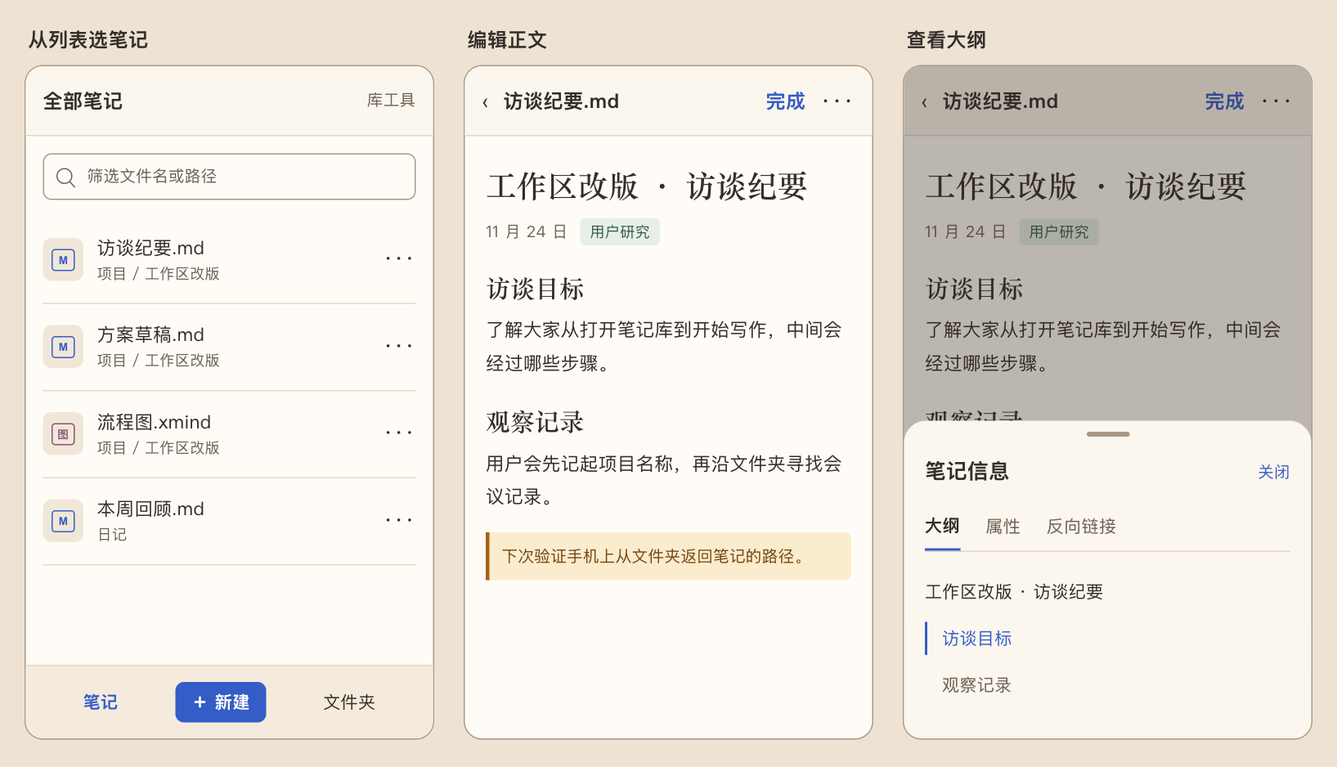
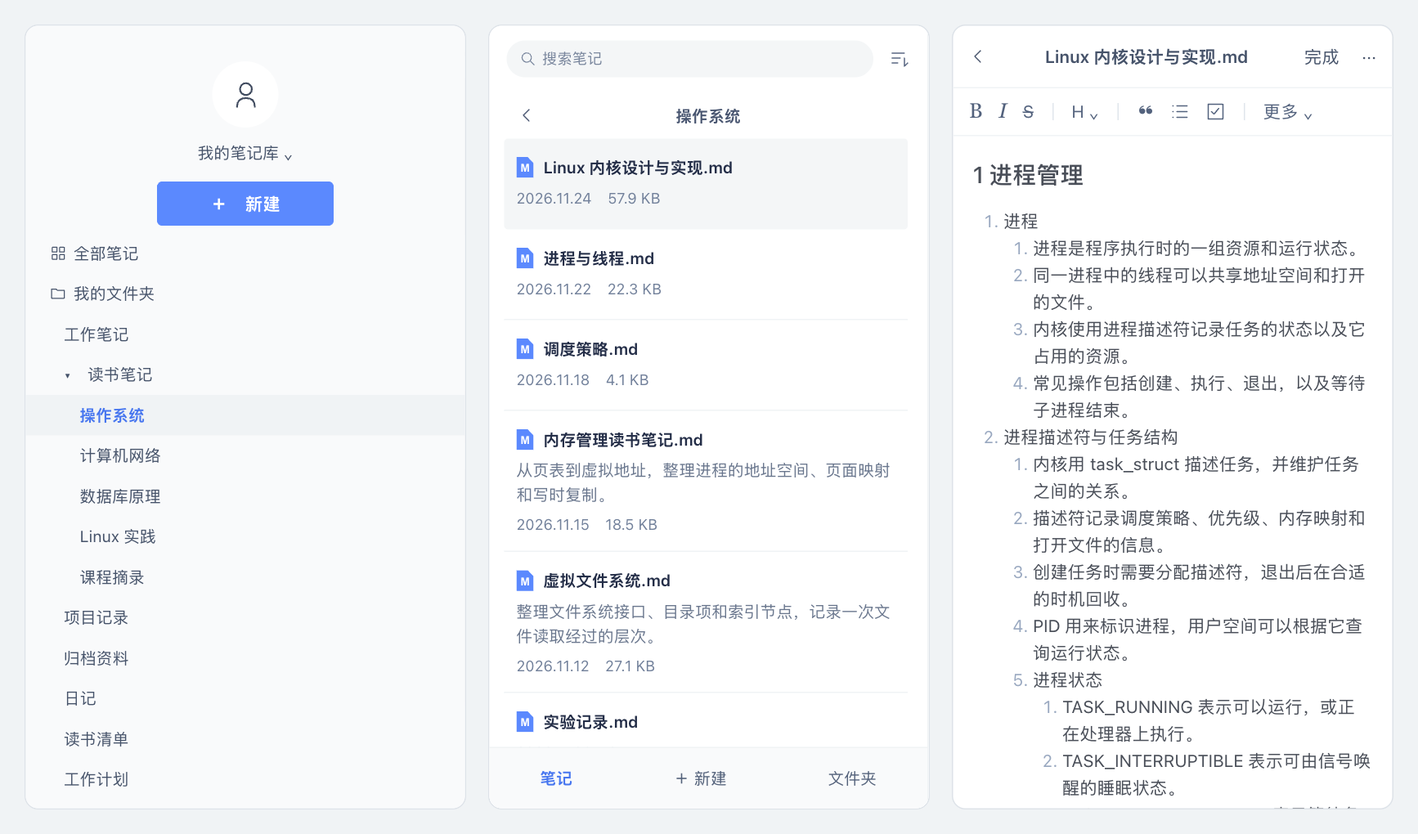
docs: match provided three-column note workspace reference

diff --git a/docs/笔记工作区设计.md b/docs/笔记工作区设计.md
@@ -2,31 +2,29 @@
 
 **Mantine AppShell · 产品与交互评审稿 · 2026 年 11 月 24 日**
 
-建议桌面默认显示**文件导航和当前笔记**。找文件时，左侧可在「全部笔记」与「文件夹」之间切换。写长文时，点「笔记信息」查看大纲、属性或反向链接。手机每次显示一个主要任务，用户从列表打开正文，返回时回到刚才选中的那一行。
+桌面以用户提供的有道云笔记截图为视觉基准。打开文件夹时，左栏停在该目录，中栏列出笔记，点选后在右栏读写。三栏从窗口顶部开始，各有自己的操作区。整个工作区共用一套白、浅灰和蓝色，常用字号为 12–14 px。
 
-本稿以本地 `main` 的 `722fae3` 为现状基线。三张图展示本轮拟议的日间、手机和夜间界面，图中文字为示例笔记。默认布局、断点和面板尺寸是本轮评审建议值。
+## 1. 桌面三栏工作区
 
-## 1. 桌面上写一篇笔记
+![桌面设计。左起依次为目录、新选目录下的笔记列表、带格式工具栏的编辑区。](assets/mantine-workspace/desktop.png)
 
-![桌面工作区示意。左侧展开项目文件夹，中间编辑访谈纪要，右侧打开文档大纲。](assets/mantine-workspace/desktop.png)
+*图 1 · 1900 × 1046，与参考截图同尺寸。当前目录为「读书笔记 / 操作系统」，中栏选中第一篇，右栏展开 Markdown 笔记。文件名、笔记内容和元数据为示例。*
 
-*图 1 · 用户从「项目 / 工作区改版」打开访谈纪要，正在编辑，并主动展开了右侧大纲。首次进入时右栏收起，正文获得更多空间。*
-
-| 区域 | 用户在这里做什么 | 交互细节 |
+| 区域 | 尺寸与位置 | 使用方式 |
 | --- | --- | --- |
-| 顶部工作区栏 | 确认当前笔记库，查看路径，进入全文搜索或库工具 | Web 的库名可以打开切库菜单。桌面本地库显示当前绑定信息，换库通过「返回同步」完成。面包屑点击父目录时只定位左栏，当前文档继续打开。 |
-| 左侧文件导航 | 在当前文件夹新建笔记、沿树找文件、按名字找一篇旧笔记 | 「全部笔记」给出平铺列表，同名文件显示父路径。「文件夹」展开目录并显示文件，点目录名称定位新建位置，点箭头只改变展开状态。列表与树复用同一套条目操作。 |
-| 文档标题栏 | 确认文件名、查看编辑模式、保存、打开笔记信息 | 文件名保留扩展名。宽度不足先收纳分享和次要命令，再收缩面包屑。保存或编辑器自己的保存入口始终可达。 |
-| 正文 | 读写 Markdown、查看文本，或操作 JSON、XMind | 阅读和所见所得正文居中。源码、分屏、XMind 画布使用可用宽度。标题栏固定在文档区域顶部，正文与左右栏各自滚动。 |
-| 右侧笔记信息 | 跳到标题、读 YAML 属性与标签、查看引用当前笔记的文件 | 默认先看大纲。点标题跳到正文对应位置，宽屏保留面板供连续定位。点反向链接相当于打开另一篇笔记，执行切换文档的草稿检查。 |
+| 库与目录 | 左侧 202 px，整栏浅灰。顶部放头像、库名与蓝色「＋ 新建」，底部放布局切换 | 点「全部笔记」列出当前库文件，选择目录刷新中栏，点展开箭头只展开下一级。高亮当前目录。新建以所选目录为目标，库工具按平台能力提供分享、回收站或返回同步 |
+| 笔记列表 | 中间 313 px，白底。顶部搜索框与排序，下方为返回上级按钮和当前文件夹名，底部显示结果数 | 一行显示小文件图标与文件名，次行显示可取得的日期和大小。有现成摘要或缩略图时最多显示两行摘要和一张小图。没有这些数据时使用紧凑行。选中文件用浅灰底 |
+| 文件标题栏 | 从 x = 515 起，只占右栏。高 75 px。文件名左对齐，保存、信息、分享和更多靠右 | 编辑动作由当前文件类型决定。「保存」采用浅灰按钮，明确显示加载、已保存或重试状态。文件名过长时截断，完整路径通过提示或笔记信息查看 |
+| 格式工具栏 | 标题栏下方 47 px，按钮在一条横线上，相关命令用细线分组 | Markdown 编辑时提供加粗、斜体、删除线、标题、引用、列表、链接、附件和代码。窄窗口把末尾命令收进「更多」。TXT 和文件插件各用自己的工具 |
+| 正文 | 从 y = 122 起，左侧内边距 44 px，内容使用右栏可用宽度，正文与左右栏分别滚动 | 标题和列表左对齐，保留 Markdown 层级缩进。正文左边缘的小按钮按需打开大纲浮层，点标题后定位到该段。属性和反向链接从标题栏的「笔记信息」进入 |
 
-**保留整理文件时的三栏。** 在「布局」里提供「导航与正文」「目录、列表与正文」和「专注写作」。第二项让频繁移动文件的人同时看到目录树和当前目录的文件，沿用原来的工作习惯。这种布局的大纲以浮层打开，避免四个固定栏争夺空间。专注模式提供常驻的「退出专注」按钮，退出后恢复进入前的排列。
+底部三个布局按钮依次用于三栏、列表与正文、专注写作，默认选中三栏。折叠时保留已展开目录、当前文件和滚动位置。用户退出专注后回到之前的排列。
 
 ## 2. 手机上从列表写到正文
 
-![手机流程示意。第一屏选中访谈纪要，第二屏编辑，第三屏从更多操作打开笔记信息底部面板。](assets/mantine-workspace/phone.png)
+![手机流程示意。依次显示目录、当前目录的笔记列表、带紧凑工具栏的正文。](assets/mantine-workspace/phone.png)
 
-*图 2 · 左起为列表、编辑和大纲。编辑时隐藏列表底部导航。「更多 → 笔记信息」从底部打开，选中标题后关闭并定位正文。*
+*图 2 · 左起为目录、列表与编辑。三屏使用同一套颜色，编辑时隐藏列表底部导航。「更多 → 笔记信息」从底部打开，选中标题后关闭并定位正文。*
 
 1. **进入笔记库。** 显示「笔记 / 新建 / 文件夹」。点「笔记」看全部文件，点「文件夹」逐级浏览，点「新建」沿用当前目录及现有新建、导入菜单。浏览器手机视图也采用这条路径。系统分享、系统返回等动作由 Android 端提供。
 2. **进入正文。** 点击列表项后保留列表的目录、筛选、排序和滚动位置。标题栏只留返回、文件名、当前主动作和更多。Android 的系统分享入口移到更多菜单。文件名较长时截断显示，在笔记信息里可读完整路径。
@@ -35,11 +33,11 @@
 
 ## 3. 哪些功能从哪里进
 
-同一个词代表同一种操作。「筛选文件名或路径」在当前库的文件清单里即时匹配。「全文搜索」进入原有搜索页，可按正文、标签和路径查找。用户拿着一句原文时可以直接用全文搜索，记得文件名时可以留在编辑界面。
+同一个词代表同一种操作。中栏「搜索笔记」默认在当前库按文件名或路径即时匹配，输入框的无障碍名称为「筛选笔记路径」。搜索框的「全文搜索」动作进入原有搜索页，可按正文、标签和路径查找。用户拿着一句原文时可以直接用全文搜索，记得文件名时可以留在编辑界面。
 
 | 功能 | Web 工作区 | 桌面和 Android 本地工作区 |
 | --- | --- | --- |
-| 库与账户 | 顶栏库菜单切换、新建。账户菜单切主题、退出 | 显示绑定库。工具菜单返回同步首页管理目录、账户和同步。Android 底栏用于浏览、创建文件 |
+| 库与账户 | 左栏库名菜单切换或新建库。头像菜单提供账户和退出操作 | 显示绑定库。工具菜单返回同步首页管理目录、账户和同步。Android 底栏用于浏览、创建文件 |
 | 笔记与目录 | 左栏新建、上传，条目「更多」管理文件或目录 | 左栏或手机列表提供新建、导入、刷新。右键、行尾更多、触屏长按进入同一组适用操作 |
 | 搜索、附件、导出 | 全文搜索有直接入口。附件与整库导出在库工具 | 相同导航名称，复用本地客户端的资源接口。联网获取的结果显示请求状态。离线时可继续按本地文件路径筛选 |
 | 分享与收件 | 文档更多可分享快照。库工具含收件箱、已发送和分享管理。审计日志在账户菜单 | Android 文本笔记更多菜单可调起系统分享。桌面、本地插件按当前已接入的能力展示操作 |
@@ -55,12 +53,12 @@
 
 | 可用宽度 | 导航 | 笔记信息与正文 |
 | --- | --- | --- |
-| ≥ 1280 | 默认左栏 276，可选经典三栏，目录与列表合计约 480 | 默认双栏布局可打开约 248 的固定右栏。专注或经典三栏时用浮层 |
-| 1024–1279 | 左栏 248，支持收起 | 大纲从右侧浮出。若此前选择经典三栏，临时使用合并导航。放宽窗口后恢复偏好 |
-| 721–1023 | 顶栏「文件」打开导航抽屉，选中文件后关闭 | 主区占满宽度。笔记信息用右侧抽屉，左右抽屉互斥 |
-| ≤ 720。Android 横屏宽 ≤ 960 且高 ≤ 540 | 列表、正文、工具页逐屏浏览 | 笔记信息用底部面板。短横屏面板可滚动，关闭按钮保持可见 |
+| ≥ 1280 | 目录 202 px，列表 313 px，正文占余宽 | 大纲和笔记信息按需浮出。布局切换位于左栏底部 |
+| 1024–1279 | 目录 176 px，列表 256 px | 正文左右各留 24 px，优先将次要命令收入「更多」 |
+| 721–1023 | 默认保留 240 px 列表和正文，列表顶部的目录按钮打开目录抽屉 | 选目录后更新列表，点文件后更新正文。单次只展开一个抽屉 |
+| ≤ 720，或 Android 横屏宽 ≤ 960 且高 ≤ 540 | 目录、列表、正文逐屏切换 | 手机正文保留 16 px 左右内边距，笔记信息从底部打开 |
 
-- 桌面顶栏建议 52 高，内边距以 8 的倍数组织。阅读正文最大宽度建议 740，平板左右各留 24，手机各留 16。宽表格和代码块在自身区域横向滚动。系统安全区计入手机顶栏、底栏与底部面板的留白。
+- 右侧正文随窗口宽度自然换行。长代码块、宽表格在块内滚动。触屏留出系统安全区，手机键盘出现后仍能编辑最后一行。
 - 布局随宽度变化时保持同一个编辑器实例、选区、撤销记录和草稿。窄屏只临时折叠面板。旋转设备不得覆盖桌面布局偏好。手机横屏判定应使用稳定视口，输入法弹出时仍留在当前编辑会话。
 - 普通库首次打开时沿用各端选文逻辑。网页加载该库现有笔记，本地端从可浏览的列表开始。空库只给一个主动作，Web 显示「新建笔记」并提供上传，本地库提供导入。账户没有普通库时，Web 首屏主动作是「创建笔记库」。
 
@@ -70,7 +68,7 @@
 | --- | --- | --- |
 | Markdown | 保留预览、所见所得、源码、分屏、思维导图，以及用户设置的默认和记忆模式。分屏内部分隔条继续控制源码与预览比例 | 大纲取当前编辑缓冲区，属性从 frontmatter 提取，可查看标签。反向链接按当前文件查询 |
 | TXT | 预览、源码、保存 | 显示完整路径和可用反向链接 |
-| JSON、XMind 与本地安装的文件插件 | 宿主打开文件，插件控制格式校验、画布、内容保存及专用导出。XMind 画布可以占满中央区域 | 只展示宿主或插件实际提供的信息。插件禁用或加载失败时沿用现有提示和恢复入口 |
+| JSON、XMind 与本地安装的文件插件 | 宿主打开文件，插件控制格式校验、画布、内容保存及专用导出。XMind 画布可以占满右侧编辑区 | 只展示宿主或插件实际提供的信息。插件禁用或加载失败时沿用现有提示和恢复入口 |
 | 历史版本 | Web 从当前文件进入历史页，文本可预览，适用的二进制版本下载 | 显示所看版本和「返回当前文档」。历史查看与当前草稿分开，返回后恢复草稿 |
 | 加密笔记库 | 进入独立解锁、编辑、保存与锁定流程 | 普通文件树、路径筛选、最近使用的布局数据均不得写入加密库的明文名称、路径或内容。锁定后清理界面引用并返回入口 |
 
@@ -79,39 +77,39 @@
 | 用户操作或结果 | 界面规则 |
 | --- | --- |
 | 未修改 → 修改 → 保存 | 有改动时「保存」可用，提交期间显示「正在保存」并防止重复提交。返回结果只确认本次提交的内容。若期间出现新改动，继续显示「有未保存的修改」 |
-| 折叠侧栏、打开信息、切主题、手机返回列表 | 仅改变显示位置，不写盘。再次进入正文时保留文本、撤销历史、选区与滚动位置 |
+| 折叠侧栏、打开信息、切换目录、手机返回列表 | 仅改变显示位置，不写盘。再次进入正文时保留文本、撤销历史、选区与滚动位置 |
 | 打开另一篇、切库、离开会话或进入会替换它的工具页 | 有草稿时显示文件名与「留在此处」「放弃并继续」。有可调用保存动作的编辑器才提供「保存并继续」，写入成功后执行原动作。浏览器刷新沿用系统离开提示 |
 | 网络失败、版本已变化、本地文件已变化 | 保留草稿并展示当前文件与具体原因。暂时断网可重试。基线冲突提供复制草稿或保全副本的路径，再交由现有版本或同步流程处理。旧基线禁止静默覆盖 |
 | 正在上传附件或请求反向链接时切换文件 | 结果按库和文件身份核对。旧文档的链接、错误或插入位置只属于原文档。迟到响应不能覆盖新文档或清除它的修改状态 |
 
 ## 6. 视觉、键盘与触屏
 
-### 写作区的暖色主题
+### 截图配色与文字尺寸
 
-有道云笔记 Mac 版的官方展示图把蓝色「新建」按钮放在文件列表上方，并用浅蓝色标出当前文件。展开菜单时，正文仍有独立的浅色背景。WeNote 借用这种区分动作、位置和内容的方式。针对初稿偏冷的问题，我们把占屏面积最大的颜色改为暖白和暖杏，给文件夹加上琥珀色轮廓。以下色值是 WeNote 的设计选择。[有道云笔记官方展示图（Mac App Store）](https://apps.apple.com/cn/app/id1600668116)
+以下表面与正文色值取自用户截图的纯色区域。字号与间距以截图的视觉比例拟定，单位为 CSS px。按原尺寸查看图 1，可直接对照同一行文字占用的空间。
 
-| 用途 | 日间 | 夜间 | 放在界面哪里 |
-| --- | --- | --- | --- |
-| 纸面与正文 | 暖白 `#FFFCF7`、炭黑 `#322E29` | 深褐 `#25211E`、米白 `#F3EAE1` | 正文保持整片纸面。中文标题用宋体，界面标签用系统无衬线，源码用等宽字体 |
-| 文件导航与工具面板 | 暖杏 `#F5EBDD`、浅米 `#FBF6EE` | 棕灰 `#302A25`、深棕 `#2B2622` | 左栏颜色略重，右侧大纲、手机顶栏和底部面板用较轻的表面色 |
-| 次要文字与分隔线 | `#6D6054`、`#E4D8C8` | `#C5B5A5`、`#4B4037` | 路径、日期、排序说明使用次要文字，分隔线用于组织区域 |
-| 主操作与按钮文字 | 蓝 `#355DC7`、白 `#FFFFFF` | 浅蓝 `#A8C0FF`、深蓝黑 `#182443` | 新建、可用的保存按钮。手机正文里「完成」只用蓝色文字 |
-| 当前选中项 | 淡蓝底 `#E6EDFF`、蓝字 `#355DC7` | 靛灰底 `#313C58`、浅蓝字 `#A8C0FF` | 当前文件同时使用底色、左侧短线和字重。大纲仅标记当前标题 |
-| 文件夹、引用与标签 | 文件夹边 `#A76016`，引文底 `#FAECCD`、字 `#744410`，标签底 `#E7EFE8`、字 `#365E46` | 文件夹边 `#EDB86B`，引文底 `#433421`、字 `#F1C98C`，标签底 `#263F33`、字 `#B0D5BC` | 色彩集中于小图标、真实的 Markdown 引用和已有标签。空白笔记只显示标题与正文输入区 |
+| 元素 | 色值 | 规则 |
+| --- | --- | --- |
+| 列表与正文 | `#FFFFFF` | 两栏使用同一白底，边缘用 1 px 细线分隔 |
+| 目录栏、选中目录 | `#F9FAFB`、`#F0F3F5` | 当前目录用蓝字标记；展开态用独立箭头表示 |
+| 当前笔记、搜索框 | `#F4F6F7` | 选中笔记使用浅灰底，文件名使用深色半粗体 |
+| 新建按钮 | `#5B89FE` | 白字，圆角 4 px。保存、更多和格式工具用中性灰，键盘焦点另有细描边 |
+| 文件名、正文 | `#232D47`、`#494E58` | 系统无衬线字体，macOS 优先使用苹方，Windows 使用微软雅黑。固定宽度字符仅用于代码 |
+| 辅助文字 | 截图样本 `#A9B2C2`，样稿 `#71809A` | 日期、大小和搜索提示适度加深，避免小字在白底上过淡 |
 
-![同一篇访谈纪要的夜间主题，深褐正文、棕灰侧栏和浅蓝色操作按钮。](assets/mantine-workspace/desktop-dark.png)
+| 文字层级 | 桌面字号 / 行高 | 使用位置 |
+| --- | --- | --- |
+| 辅助文字 | 12 / 18 px | 日期、大小、列表底部计数 |
+| 文件导航、笔记名 | 13 / 20 px | 目录行高 30 px。普通笔记行约 74 px，摘要行按内容增加高度 |
+| 正文 | 14 / 23.5 px | 普通段落、列表、表格。手机正文 14 / 22 px，允许系统放大 |
+| 文件标题 | 20 / 30 px | 右栏文件名。手机文件名 14 px |
+| Markdown 一级标题 | 24 / 34 px | 二级标题建议 20 px，三级 16 px。手机一级标题 19 px |
 
-*图 3 · 与图 1 的笔记和布局相同。夜间保留文件夹的琥珀色，用浅蓝按钮配深色文字。*
-
-**交互状态。** 鼠标悬停文件行时铺一层浅暖色，键盘焦点用 2 像素主色描边并留 2 像素间距。保存成功后按钮退为次要文字，显示「已保存到本地」或「已保存新版本」。失败提示用错误图标、原因和可执行的恢复动作。手机沿用相同颜色，底部操作栏取导航色，正文返回与更多菜单保持足够的触控面积。
-
-**接入方式。** 在 `MantineProvider` 下按浅深模式定义纸面、导航、面板、主文字、次文字、主操作和选中底色。将现有 `--paper`、`--rail`、`--ink`、`--muted`、`--accent`、`--tint` 映射到对应角色。Drawer 和菜单通过 Portal 也应获得同组值。CodeMirror 的底色跟随纸面，选区跟随选中底色。Mermaid 和 XMind 的默认主题随外观切换，并尊重用户已选的脑图主题。
-
-**可读性验收。** 按表中 sRGB 色值计算，正文与纸面的对比度为日间 13.17∶1、夜间 13.44∶1。主按钮文字为 5.93∶1、8.49∶1，选中文件名为 5.06∶1、6.07∶1。实施时还需在实际 WebView 中检查输入焦点、代码高亮、错误提示与系统字体放大后的效果。
+普通笔记工作区固定这一套浅色外观。头像菜单只提供账户相关操作。AppShell、弹层、编辑器纸面、列表和默认图表背景共用相同色值。系统字体缩放和键盘焦点仍然生效。
 
 ### 键盘与触屏
 
-- `Ctrl/⌘ + Shift + F` 延续现有行为，展开文件导航并聚焦路径筛选。`Ctrl/⌘ + S` 调用当前文档的保存。中文输入法正在组词时，Enter、方向键等交给输入控件。树节点与列表项都支持键盘到达、选择与展开。
+- `Ctrl/⌘ + Shift + F` 延续现有行为，展开笔记列表并聚焦中栏搜索框。`Ctrl/⌘ + S` 调用当前文档的保存。中文输入法正在组词时，Enter、方向键等交给输入控件。树节点与列表项都支持键盘到达、选择与展开。
 - 移动端行尾更多、返回、完成和底栏按钮至少提供 48 × 48 的触控区域。纵向拖动只滚列表，长按静止行才打开菜单。子菜单返回上一级，关闭后键盘焦点回到触发按钮。如果该行已删除，移到相邻行。
 - 用语义化导航、主区、标题和带名称的按钮支持读屏。面板按钮报告展开状态，当前页和当前文件可由读屏辨认。保存状态在发生变化时播报一次。错误保持可见并提供恢复动作。
 - 打开抽屉后焦点进入抽屉，关闭后回到触发位置。点击大纲标题属于正文定位动作，关闭抽屉后将焦点交给目标标题或编辑器。系统偏好减少动画时关闭滑入过渡。
@@ -123,30 +121,31 @@
 | 代码位置 | 拟议改动 | 必须保留的行为 |
 | --- | --- | --- |
 | [Web 入口](../apps/web/src/main.tsx)、[本地编辑入口](../apps/web/src/desktop.tsx) | 在普通工作区入口放 `MantineProvider` 与共享工作区组件。分别传入库、当前文档、工具与可用动作。Web 以库和文件 ID、本地以绑定库和路径识别会话 | Web 的版本基线、Tauri 的本地哈希、二进制插件读写及原有退出确认各有归属。公开分享和本地同步首页有独立入口 |
-| [库面板](../apps/web/src/LibraryUI.tsx)、[条目菜单](../apps/web/src/EntryMenu.tsx) | `AppShell.Header` 放库级动作，`Navbar` 放文件浏览，`AppShell.Section` 管理可滚动区域。先抽出已有排序、路径筛选与文件操作，再把树和列表接入新布局 | 保留空目录标记、自然排序、同名文件的完整路径、文件夹上下文菜单、键盘和长按行为 |
-| [Web 文档](../apps/web/src/Editor.tsx)、[共享文档](../apps/web/src/markdown/Markdown.tsx)、[插件编辑器](../apps/web/src/plugins/PluginEditor.tsx) | `AppShell.Main` 作为唯一主区。正文保持稳定挂载。宽屏把信息挂到 `AppShell.Aside`，窄屏切换到 `Drawer`。扩展已有 `metadataHost`，把目录和属性显示在选中页签 | 使用同一份 Markdown 解析结果。信息收起时停掉仅为该面板进行的查询，切换面板类型只移动信息视图。插件自己维护撤销与保存 |
+| [库面板](../apps/web/src/LibraryUI.tsx)、[条目菜单](../apps/web/src/EntryMenu.tsx) | `AppShell.Navbar` 包含左目录与中列表，两个区域分别滚动。库级动作放左栏，搜索与排序放中栏。先抽出已有排序、路径筛选与文件操作，再把树和列表接入新布局 | 保留空目录标记、自然排序、同名文件的完整路径、文件夹上下文菜单、键盘和长按行为 |
+| [Web 文档](../apps/web/src/Editor.tsx)、[共享文档](../apps/web/src/markdown/Markdown.tsx)、[插件编辑器](../apps/web/src/plugins/PluginEditor.tsx) | `AppShell.Main` 作为唯一主区。正文保持稳定挂载。标题栏和格式栏只在右侧主区占位。大纲与信息通过浮层或 `Drawer` 展示。扩展已有 `metadataHost`，把目录和属性显示在选中页签 | 使用同一份 Markdown 解析结果。信息收起时停掉仅为该面板进行的查询，切换面板类型只移动信息视图。插件自己维护撤销与保存 |
 | [手机交互](../apps/web/src/PhoneUI.tsx) | 保留现有手机列表与正文层级。新增 Mantine 抽屉时向 Android 返回处理注册当前最上层关闭动作 | 现有处理通过 `dialog[open]` 找原生对话框。Mantine Portal 需显式接入同一返回顺序，避免一次返回同时关弹层并离开正文 |
-| [主题](../apps/web/src/appearance.ts)、[现有样式](../apps/web/src/style.css) | 让 Provider 用现有 `wenote-color-scheme-v1` 驱动颜色，更新原有根节点属性及 Mantine 主题。CSS 加载优先级显式约定，将旧全局 `button`、`main`、布局规则逐步收窄 | 检查冷启动主题、深浅切换、弹层 Portal、图表和打印。打印或导出 PDF 时只保留笔记内容 |
+| [外观入口](../apps/web/src/appearance.ts)、[现有样式](../apps/web/src/style.css) | 在普通工作区的 Provider 固定浅色，将表面、分隔、正文与操作色映射到现有 CSS 变量，Portal 使用同组样式 | 从旧版深色偏好进入工作区时，导航和正文均应按本稿显示。编辑器沿用用户无障碍字号设置。打印或导出 PDF 只保留笔记内容 |
 
-**布局实现约定。** `AppShell.Main` 只计算一次固定区域的偏移。经典三栏用一个较宽的 `Navbar` 容纳目录与列表，`Aside` 留给笔记信息。当 Navbar 收起时，顶栏库名前出现带「打开文件导航」名称的按钮。抽屉模式让对应固定面板折叠，避免留下空白偏移。手机正文只保留一个标题栏。使用 `@mantine/core` 与 `@mantine/hooks` 的匹配版本，实施时验证项目的 React 19、Vite 和 Tauri WebView 构建并锁定依赖。[AppShell 布局](https://mantine.dev/core/app-shell/) · [Drawer 焦点与关闭行为](https://mantine.dev/core/drawer/) · [Vite 接入](https://mantine.dev/guides/vite/)
+**布局实现约定。** `AppShell.Main` 只计算一次 Navbar 的宽度偏移。宽屏 Navbar 总宽 515 px，内部以 202 px 与余宽分成目录和列表。编辑器保留同一个挂载位置，文档栏独立放置文件标题与工具栏。关闭浮层后焦点回到触发按钮或选中的正文位置。实施时按 React 19、Vite 与 Tauri WebView 的目标环境验证构建。[AppShell 布局](https://mantine.dev/core/app-shell/) · [Drawer 焦点与关闭行为](https://mantine.dev/core/drawer/) · [Vite 接入](https://mantine.dev/guides/vite/)
 
-**状态归属。** 布局模式与主题按设备记忆。文件夹、搜索词、树展开和列表滚动按当前库的会话保存。抽屉、子菜单、焦点和正在组词的输入属于当前窗口。编辑器独占草稿、保存基线、选择区与撤销栈。点选导航先检查能否离开，再提交新的选中状态。客户端只呈现该平台提供的动作，离线和权限错误由具体操作反馈。[主题方案](https://mantine.dev/theming/color-schemes/) · [样式加载](https://mantine.dev/styles/mantine-styles/)
+**状态归属。** 布局模式按设备记忆。文件夹、搜索词、树展开和列表滚动按当前库的会话保存。抽屉、子菜单、焦点和正在组词的输入属于当前窗口。编辑器独占草稿、保存基线、选择区与撤销栈。点选导航先检查能否离开，再提交新的选中状态。客户端只呈现该平台提供的动作，离线和权限错误由具体操作反馈。[样式加载](https://mantine.dev/styles/mantine-styles/)
 
 ## 8. 实施顺序与验收
 
 | 阶段 | 可交付的完整体验 | 进入下一阶段的条件 |
 | --- | --- | --- |
-| 一 · Web 读写 | 普通库中完成查找、打开、编辑、保存。新壳层接入标题栏、文件导航、主题和可选笔记信息 | 同一篇 Markdown 切栏后仍能撤销，保存生成正确版本。关闭信息面板后正文获得可用宽度 |
-| 二 · Web 工具与文件类型 | 接入库工具、经典三栏、历史、插件、附件和导出。验证公开分享与加密入口 | 在界面上找得到原有各项动作，按路径定位同名文件正确，插件修改可保存，打印只含正文 |
-| 三 · 桌面本地工作区 | 复用壳层，接入本地打开、写入、离线浏览和返回同步 | 断网修改可落盘，重开本地库可读。恢复联网后可通过原同步流程查到结果 |
+| 一 · Web 读写 | 普通库中完成查找、打开、编辑、保存。新壳层接入标题栏、目录、笔记列表、格式栏与笔记信息浮层 | 同一篇 Markdown 切栏后仍能撤销，保存生成正确版本。关闭浮层后焦点回到原处 |
+| 二 · Web 工具与文件类型 | 接入库工具、布局切换、历史、插件、附件和导出。验证公开分享与加密入口 | 在界面上找得到原有各项动作，按路径定位同名文件正确，插件修改可保存，打印只含正文 |
+| 三 · 桌面本地工作区 | 复用三栏工作区，接入本地打开、写入、离线浏览和返回同步 | 断网修改可落盘，重开本地库可读。恢复联网后可通过原同步流程查到结果 |
 | 四 · 手机与跨端回归 | 小屏 Web 和 Android 接入逐屏导航、底部信息面板和返回栈 | 竖屏、短横屏、软键盘、读屏焦点、触屏长按和系统返回均通过场景验收 |
 
 ### 可直接执行的场景
 
 | 场景 | 操作 | 通过条件 |
 | --- | --- | --- |
+| 视觉对照 | 以 1900 × 1046、100% 缩放打开普通工作区，并从旧版深色偏好重新进入 | 首屏为浅色三栏，栏界在 x = 202、515，正文从工具栏下方开始。检查 13 px 列表、14 px 正文、20 px 文件名及 24 px 一级标题 |
 | 同名与筛选 | 在两个文件夹创建同名笔记，按路径筛选，打开其中一篇，再清除筛选 | 结果显示父路径，正文属于选中项，清除筛选后目录上下文可恢复 |
-| 长文写作 | 在文中改一个词，打开大纲、切换主题、收起左栏、恢复布局，再撤销 | 草稿连续，撤销一次还原刚才的词。面板开合不触发保存 |
+| 长文写作 | 在文中改一个词，打开大纲、收起左栏、恢复布局，再撤销 | 草稿连续，撤销一次还原刚才的词。面板开合不触发保存 |
 | 草稿跨页 | 编辑 Markdown 或改动 XMind 节点后，选另一篇、切库或进入会替换文档的工具页 | 取消后文件、选区和内容仍在。选择保存并继续时，只有写入成功才导航 |
 | 离线与冲突 | 断开桌面网络，保存本地文档并打开全文搜索。在 Web 用两个会话修改同一版本 | 本地显示已写盘，搜索显示可重试。Web 旧基线写入失败时保住草稿，未显示成功 |
 | 窗口变化 | 带着未保存修改调整到 1440、1280、1024、768、390 像素宽，再旋转到 844 × 390 | 固定栏和抽屉依表切换，右栏无残留空位，正文仍可输入，扩大后恢复布局 |
@@ -154,6 +153,4 @@
 | 格式和设备 | 轮流打开 TXT、Markdown、JSON、XMind，执行各自的保存或导出，并在另一设备同步后打开 | 模式与动作符合文件类型，JSON 可再次解析，XMind 可再次打开并保留修改，Android 导出进入系统保存流程 |
 | 独立入口 | 直接打开受密码保护的分享链接。解锁加密库、编辑、锁定，然后回普通库 | 访问按原权限校验。锁定后在普通导航、最近使用数据与屏幕上均找不到明文信息 |
 
-实施阶段可扩展现有 [条目菜单测试](../apps/web/tests/entry-menu.mjs)、[外观回归](../apps/web/tests/theme.mjs)、[Android 场景](../apps/web/tests/android.mjs)和[桌面端到端验收](../tests/e2e/desktop.mjs)。两端构建入口见[项目说明](../README.md)。以上为后续实现验收标准，本轮已交付的内容是设计稿及三张示意图。
-
-**本轮主题评审可对照图 1 和图 3。** 两图展示同一篇笔记，便于观察日夜两种模式下正文、当前文件和保存动作的层次。图 2 用于检查这些颜色在手机上的实际占比。
+实施阶段可扩展现有 [条目菜单测试](../apps/web/tests/entry-menu.mjs)、[外观回归](../apps/web/tests/theme.mjs)、[Android 场景](../apps/web/tests/android.mjs)和[桌面端到端验收](../tests/e2e/desktop.mjs)。两端构建入口见[项目说明](../README.md)。以上为后续实现验收标准，本轮交付为设计文档、桌面原尺寸示意图和手机逐屏示意图。

diff --git a/docs/tasks/DOCS-20261124-mantine-workspace.md b/docs/tasks/DOCS-20261124-mantine-workspace.md
@@ -6,7 +6,7 @@
 | 基线 | 本地 `main` · `722fae3` |
 | 分支 | `codex/docs-mantine-workspace-20261124` |
 | worktree | `.worktrees/mantine-workspace` |
-| 状态 | `DELIVERED` |
+| 状态 | `CHANGES_REQUESTED` |
 
 ## 需求与验收
 
@@ -32,3 +32,9 @@
 检查旧稿 `rg -q '暖杏' docs/笔记工作区设计.md` 退出 1。核对有道 Mac App Store 官方截图后重绘三张 WeNote 工作区示意图，分别展示桌面日间、手机流程、桌面夜间。自审核对两套主题的按钮前景色、选中项和文档所列色值，并逐张检查中文文字和面板边界。`python3 contrast.py` 退出 0，两套主题共 12 组前景背景对比均超过 4.5∶1。临时文档检查 `verify-theme.py` 退出 0，检查 8 节设计、18 个本地引用和 3 张 PNG。`git diff --check` 退出 0。
 
 2026-11-24 `DELIVERED`。第二轮设计提交 `831a75d` 已合入本地 `main`，`git merge-base --is-ancestor 831a75d main` 退出 0。原工作区与任务分支保留，等待用户验收主题。
+
+## 第三轮 · 按用户提供的有道云笔记截图设计
+
+2026-11-24 `CHANGES_REQUESTED`。用户指定以本轮附件为布局和颜色依据，要求紧凑字号、单一外观。在原工作区基于 `e6042ae` 更新设计文档和桌面、手机配图。验收对照三栏边界、字号、白灰蓝配色与笔记工具栏。
+
+首次检查 `rg -q '202 px' docs/笔记工作区设计.md` 退出 1，旧稿采用合并导航。自审通过取样核对用户附件的白、目录灰、选中灰、正文色与新建按钮蓝。使用隔离的本地浏览器渲染两张示意图，渲染脚本的断言确认在 1900 × 1046 画布上编辑区从 x = 515 开始，正文从 y = 122 开始，字体为 14 CSS px。逐张检查中文、栏界与行间距。复查跨端设计后补回「全部笔记」入口，清除前版视觉方案引用。`verify.py` 退出 0，确认 8 节、17 个本地引用与 2 张可解码的图。`git diff --check` 退出 0。

diff --git a/docs/开发账本.md b/docs/开发账本.md
@@ -10,7 +10,7 @@
 | `FEAT-20261123-date-hash-assets` | `feature` | 附件 URL 与 Blob 路径使用日期目录和内容哈希 | all | `MERGED` | `codex/feature-date-hash-assets-20261123` | `docs/tasks/FEAT-20261123-date-hash-assets.md` |
 | `FEAT-20261123-theme-toggle` | `feature` | 增加深浅色模式切换并适配 Markdown 与脑图主题 | web / desktop / android | `MERGED` | `codex/feature-theme-toggle-20261123` | [docs/tasks/FEAT-20261123-theme-toggle.md](tasks/FEAT-20261123-theme-toggle.md) |
 | `DOCS-20261123-review-before-merge` | `docs` | 自审后合入 main，保留 worktree 验收 | 开发流程 | `DELIVERED` | `codex/docs-review-before-merge-20261123` | [任务记录](tasks/DOCS-20261123-review-before-merge.md) |
-| `DOCS-20261124-mantine-workspace` | `docs` | 设计 Mantine AppShell 笔记工作区及跨端交互 | web / desktop / android | `DELIVERED` | `codex/docs-mantine-workspace-20261124` | [任务记录](tasks/DOCS-20261124-mantine-workspace.md) |
+| `DOCS-20261124-mantine-workspace` | `docs` | 设计 Mantine AppShell 笔记工作区及跨端交互 | web / desktop / android | `CHANGES_REQUESTED` | `codex/docs-mantine-workspace-20261124` | [任务记录](tasks/DOCS-20261124-mantine-workspace.md) |
 
 ## 分类
 
